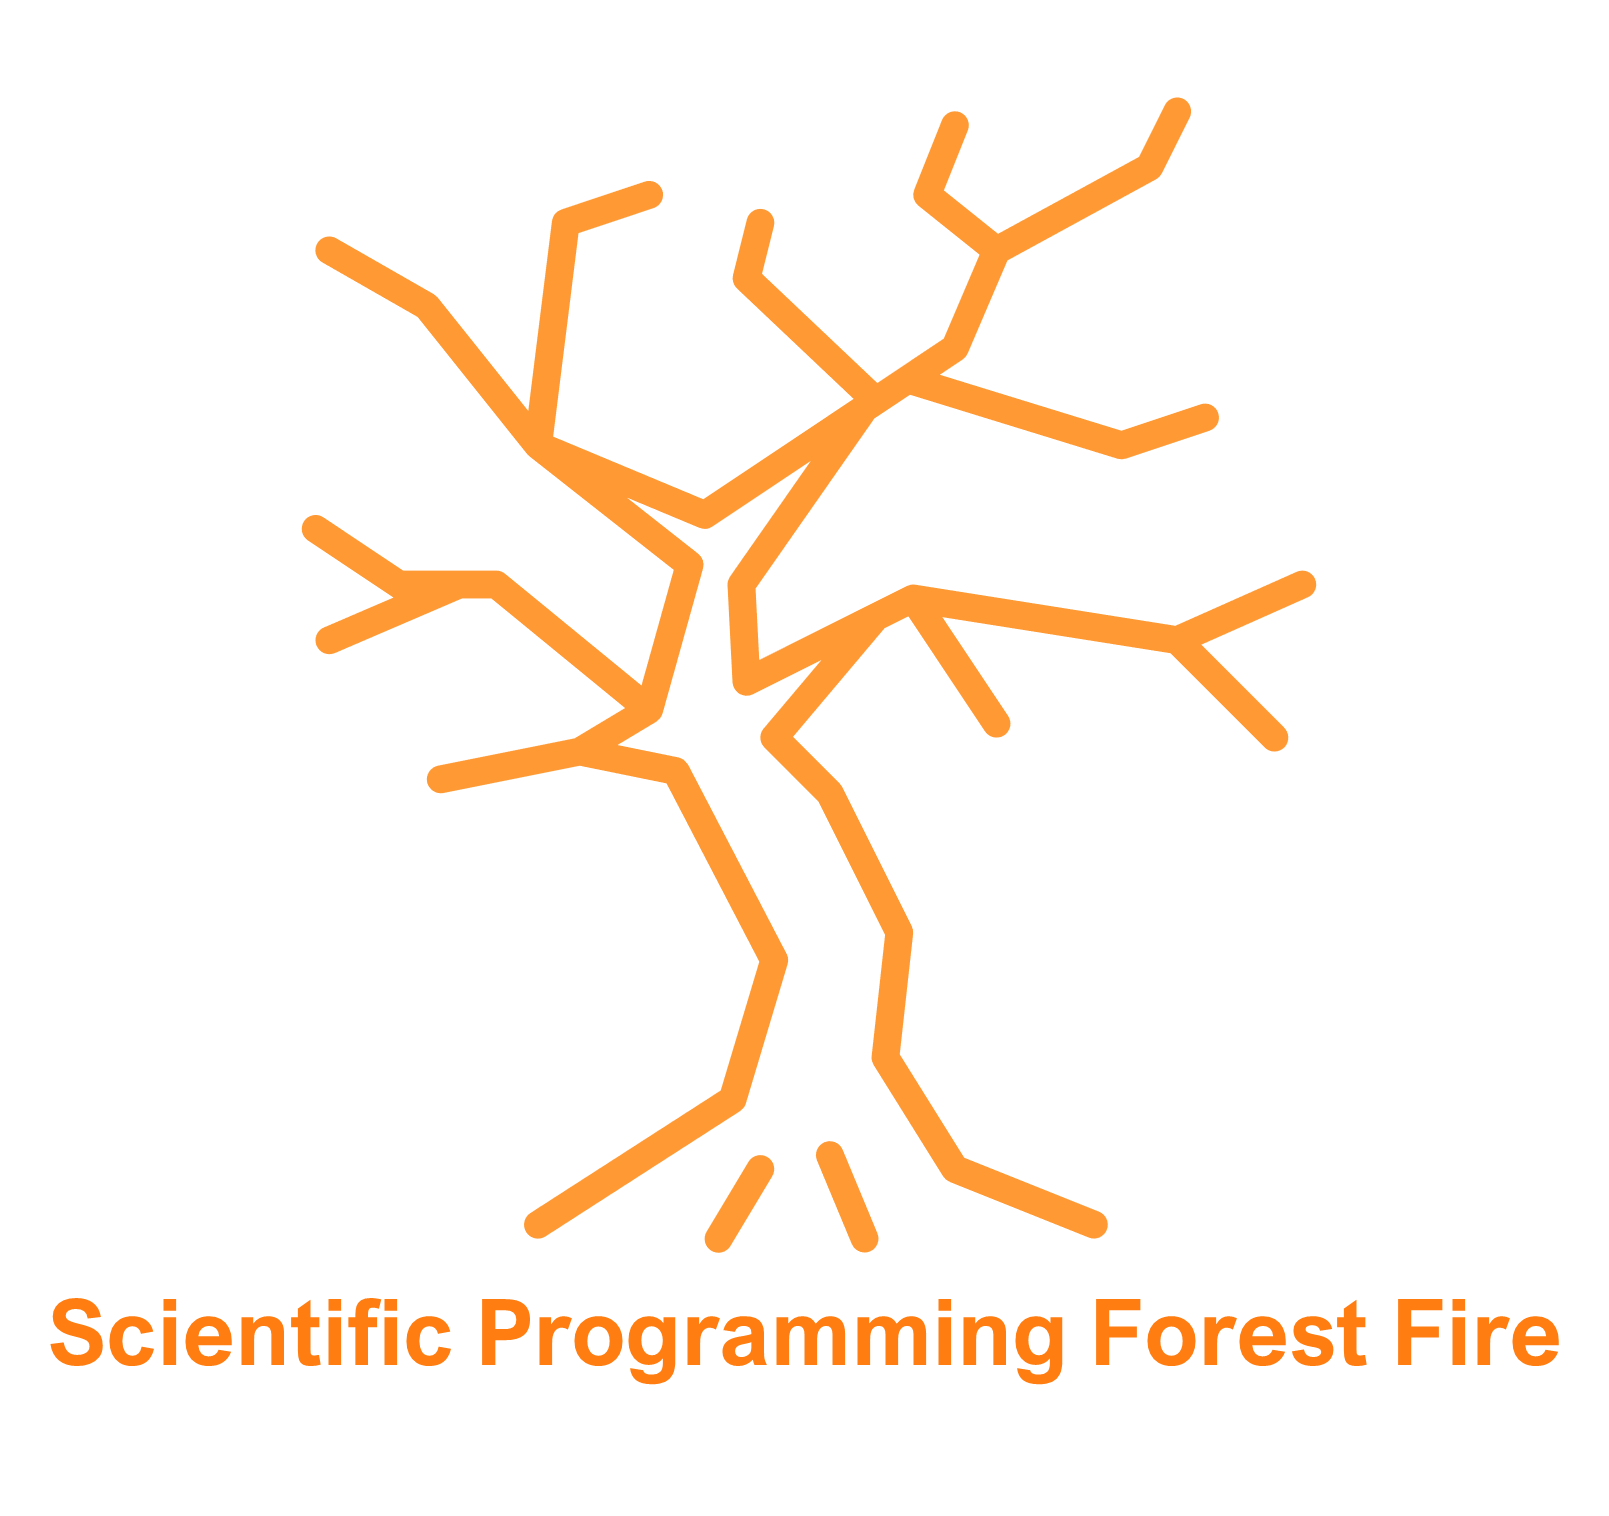
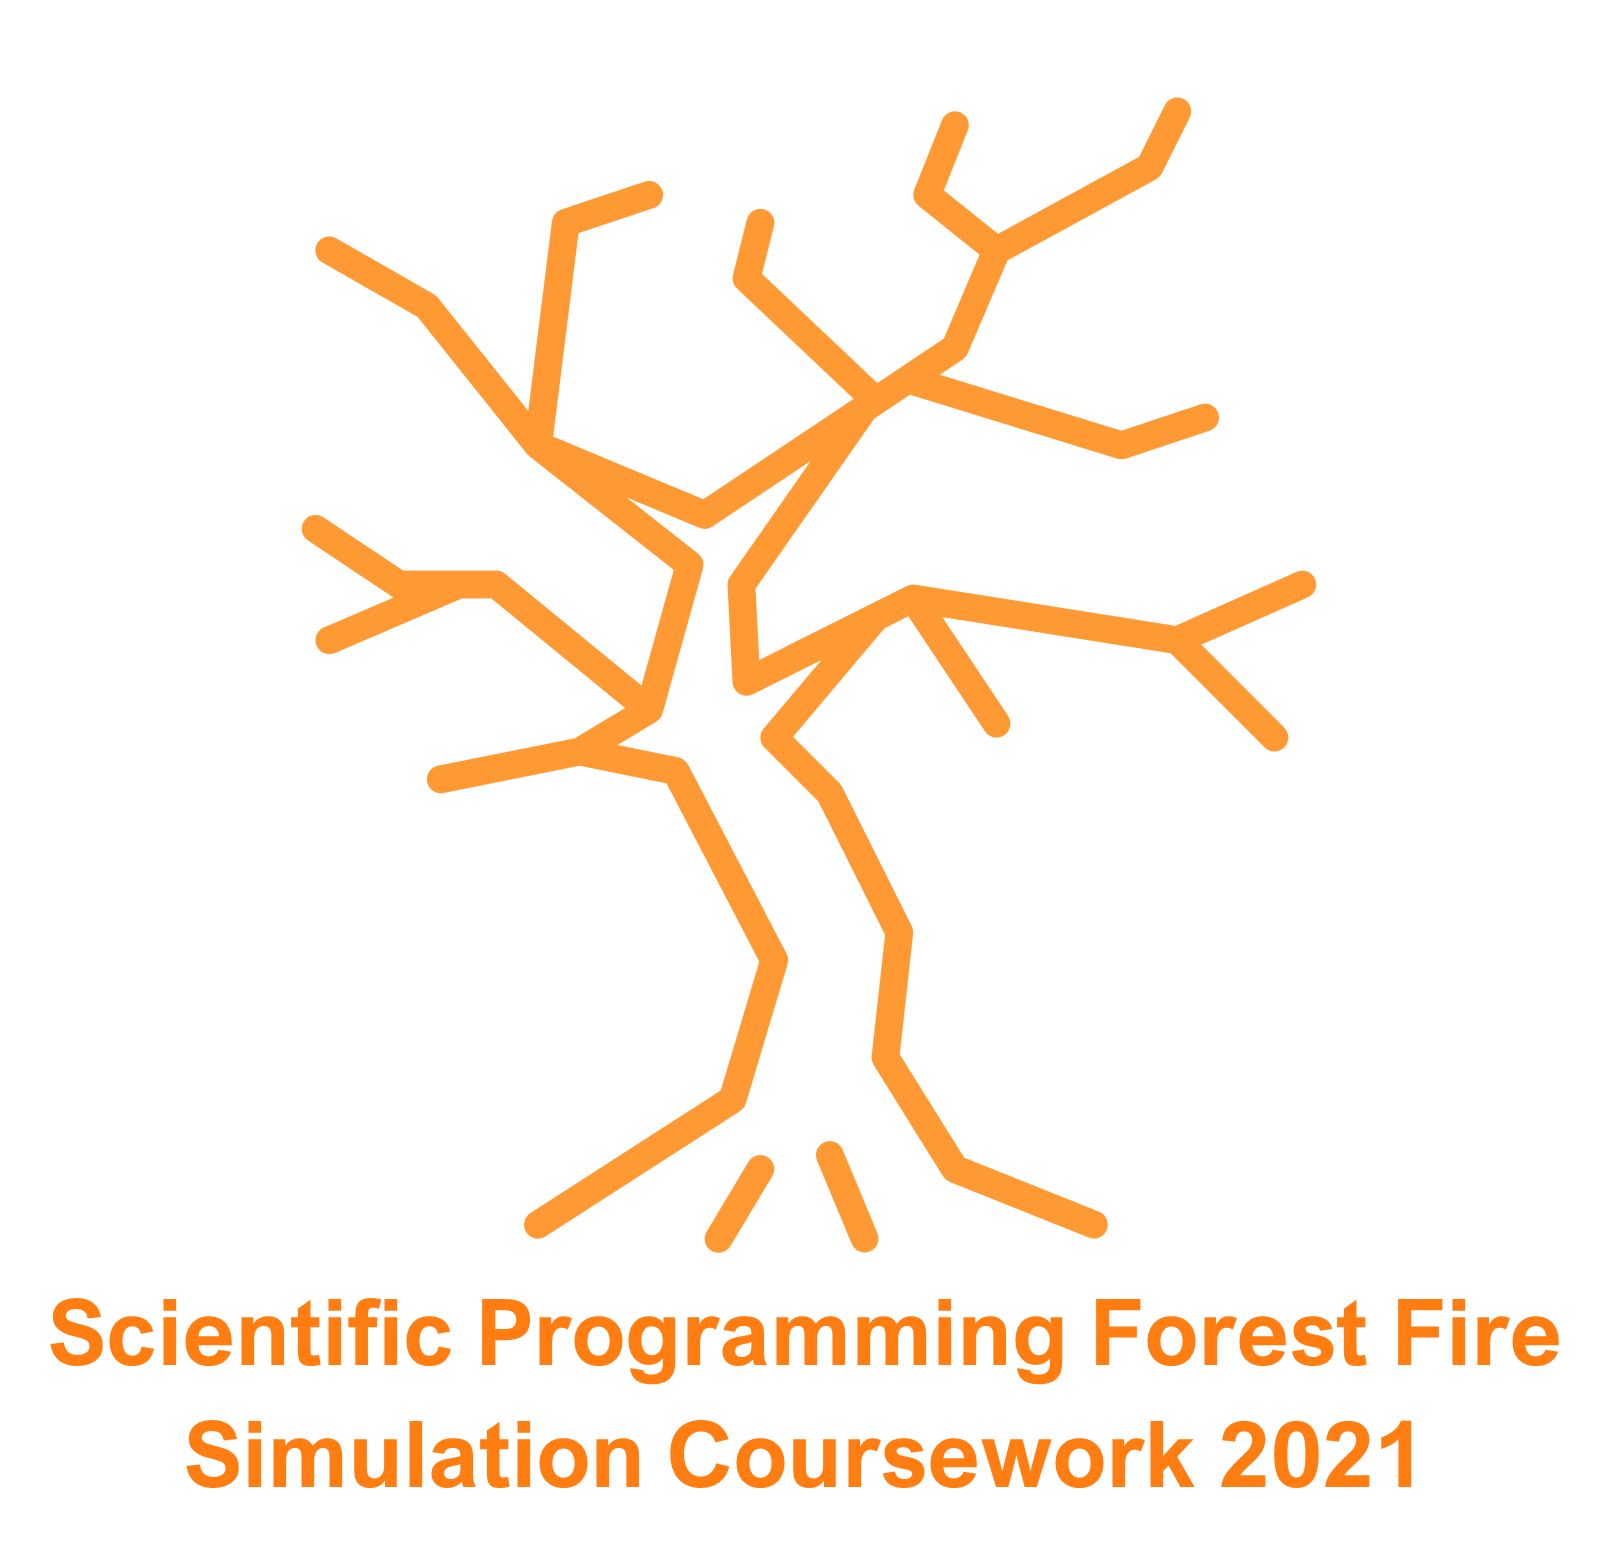
wd

diff --git a/README.md b/README.md
@@ -2,10 +2,36 @@
 <p align=right>
   <img src = "README_Media/Overall_Burning_Tree.png" width="500">
 </p>
+<head>
+</head>
+
+<main>
 
 
-# Scientific Programming Forest Fire Simulation Coursework 2021
+<body>
+
+
+
+<h1>
+ Scientific Programming Forest Fire Simulation Coursework 2021
+</h1>
 >_All code written here is my own work_
->_By William D'Alessandro_
+>_<br>By <b>William D'Alessandro<b>_
 ---
-<h1><img src= width="50" height="70"> Code Folder </h1> 
+<article>
+    <h2>
+        How to run this project
+    </h2>
+    <p1>
+        To run this code, simply set your working directory to '~\Scientific_Programming_Coursework\Scripts'.
+        Next, using Ubuntu, turn your terminal to one which can interpret BASH scripts, this is often done by simply typing BASH into the cmd terminal itself.
+        You will then see green and blue text, in place of the white text. You may be missing some of the required packages, to install them simply follow the on screen sudo commands, 
+        as BASH will tell you the prompts to install these.
+    </p1>
+</article>
+
+
+
+</body>
+
+</main>
